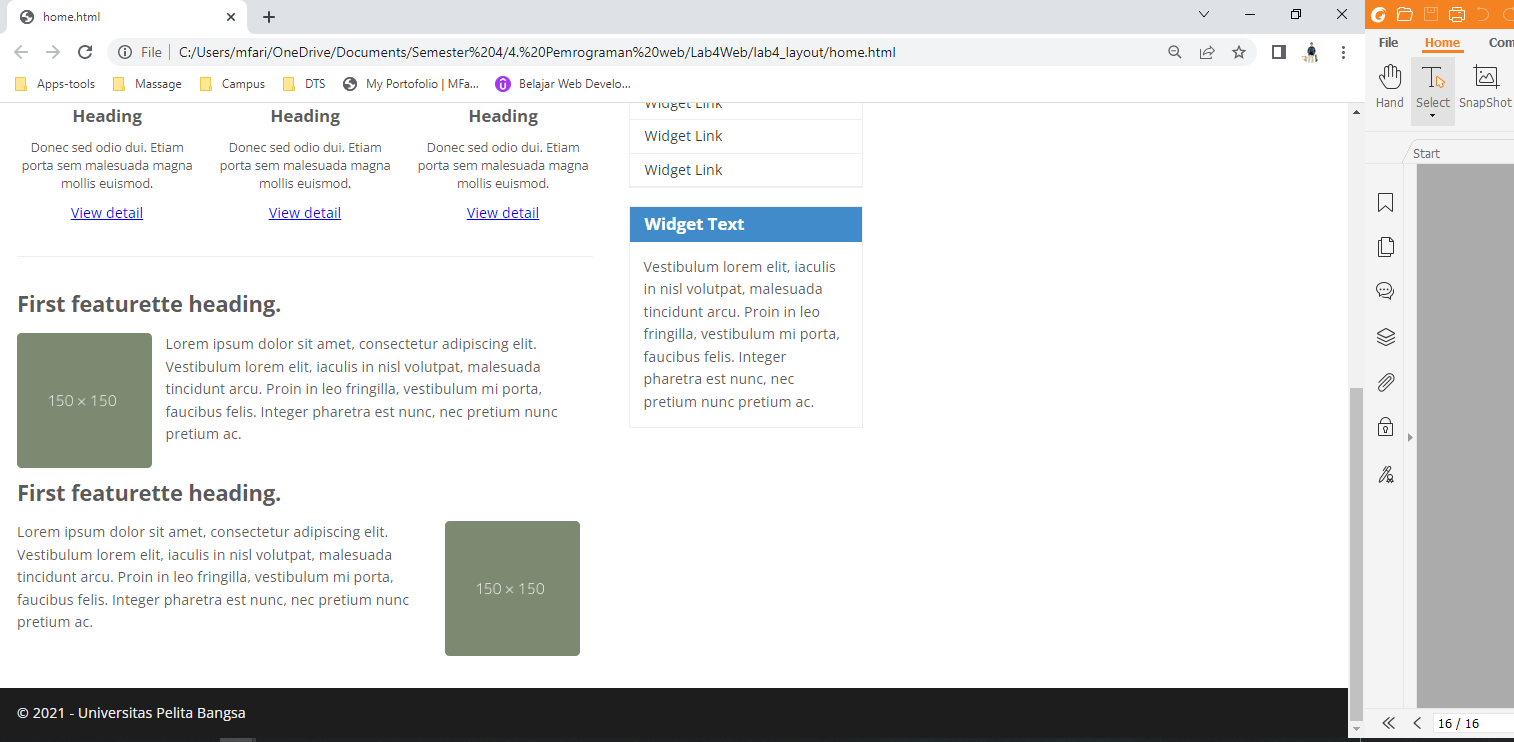
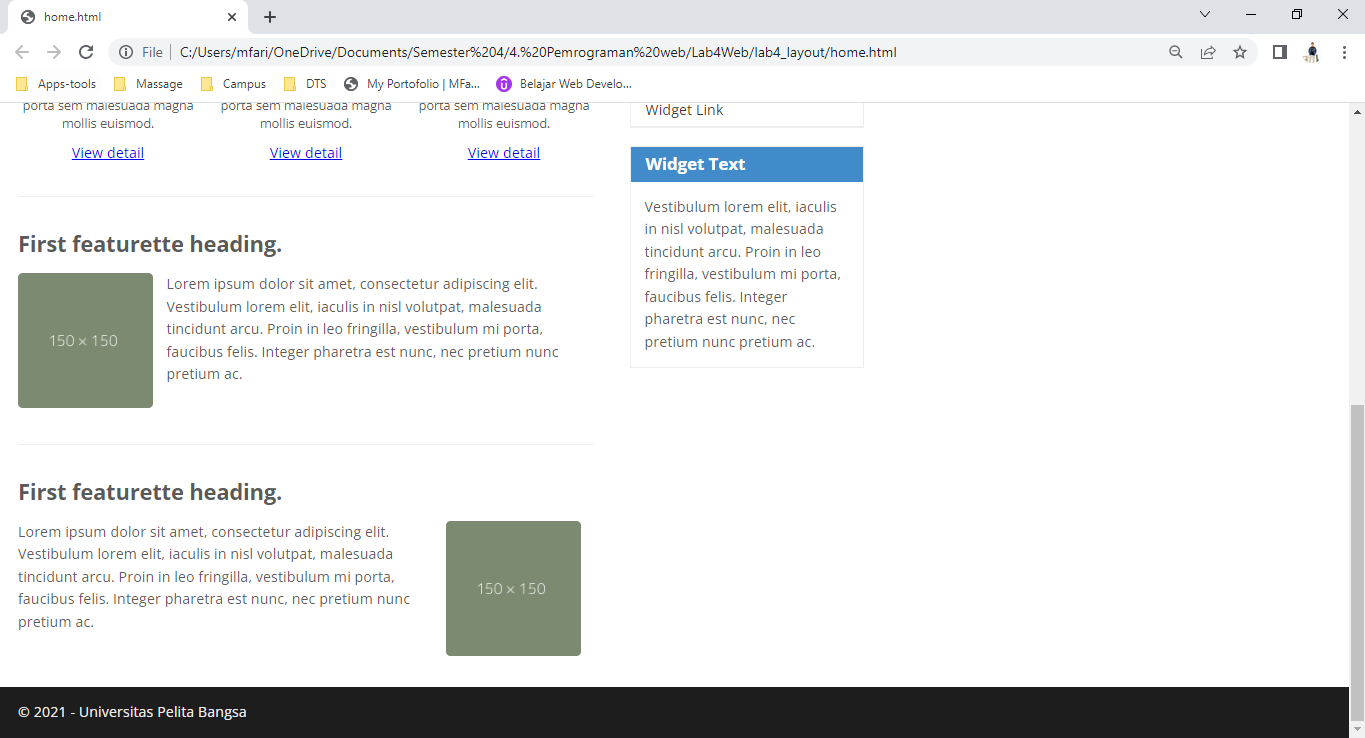
Update README.md

diff --git a/lab4_layout/home.html b/lab4_layout/home.html
@@ -46,7 +46,7 @@
             <img src="https://dummyimage.com/150/7b8a70/fff.png" alt="">
             <p>Lorem ipsum dolor sit amet, consectetur adipiscing elit. Vestibulum lorem elit, iaculis in nisl volutpat, malesuada tincidunt arcu. Proin in leo fringilla, vestibulum mi porta, faucibus felis. Integer pharetra est nunc, nec pretium nunc pretium ac.</p>
         </article>
-        <hrclass="divider" />
+        <hr class="divider" />
         <article class="entry">
             <h2>First featurette heading.</h2>
             <img src="https://dummyimage.com/150/7b8a70/fff.png" alt=""

diff --git a/README.md b/README.md
@@ -493,3 +493,11 @@ Berikut hasilnya.<br>
 
 ![gambar 10](image/pict10.PNG) <br>
 <br>
+
+***Pertanyaan dan Tugas**<br>
+1. Tambahkan Layout untuk menu About<br>
+    => buat single layout yang berisi deskripsi, portfolio, dll<br>
+2. Tambahkan layout untuk menu Contact<br>
+    => yang berisi form isian: nama, email, message, dll<br>
+
+**Jawab :**<br>
